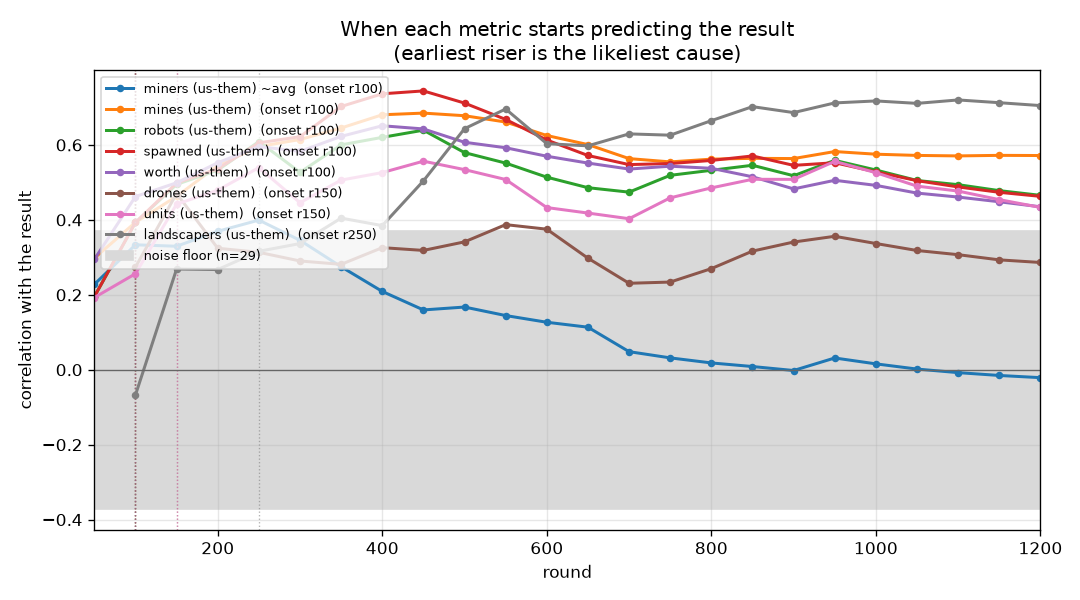
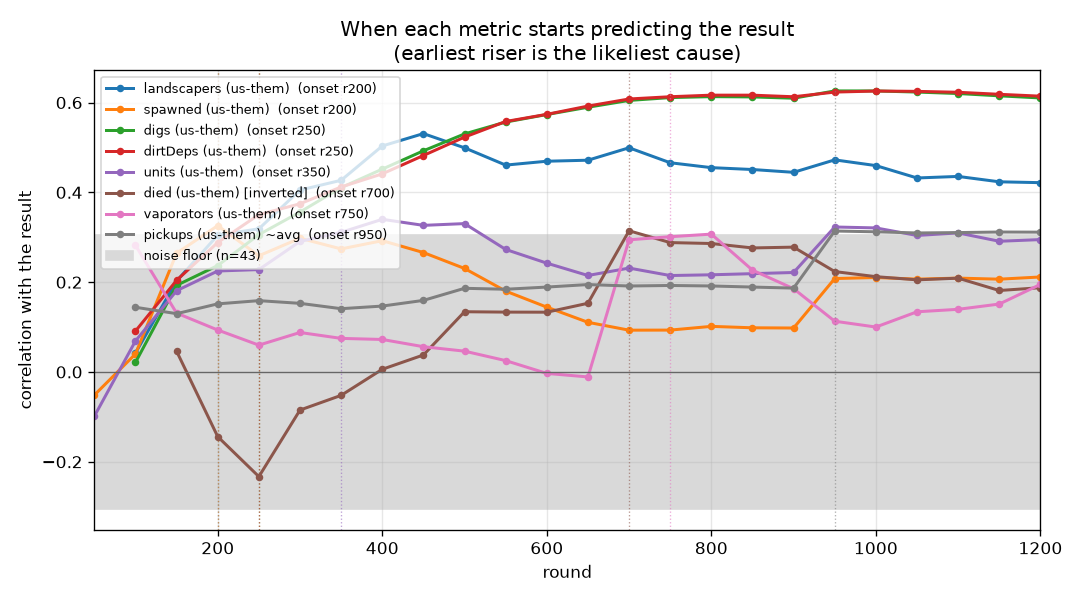
PROMPTS 21
Claude-Session: https://claude.ai/code/session_015tNyF5ucwWW1mudpEQTT25

diff --git a/progress/ONSET.md b/progress/ONSET.md
@@ -1,6 +1,6 @@
 # Which metric starts predicting the result first
 
-29 games, 16 wins. Noise floor about 0.37; a correlation inside that band is not evidence.
+43 games, 35 wins. Noise floor about 0.30; a correlation inside that band is not evidence.
 
 Every metric is oriented so **higher is better for us**, so a positive correlation always means
 "this being better goes with winning". `~avg` is the running mean over all rounds so far rather than
@@ -12,46 +12,46 @@ See `progress/METRICS.md` for how each quantity is computed.
 
 | onset | anti | metric | peak corr | r100 | r200 | r300 | r400 | r600 | r900 |
 |---|---|---|---|---|---|---|---|---|---|
-| r100 | - | miners (us-them) ~avg | +0.40 | +0.33 | +0.37 | +0.35 | +0.21 | +0.13 | -0.00 |
-| r100 | - | mines (us-them) | +0.68 | +0.39 | +0.54 | +0.61 | +0.68 | +0.63 | +0.56 |
-| r100 | - | mines (us-them) ~avg | +0.67 | +0.39 | +0.50 | +0.56 | +0.61 | +0.67 | +0.63 |
-| r100 | - | robots (us-them) | +0.64 | +0.39 | +0.53 | +0.53 | +0.62 | +0.51 | +0.52 |
-| r100 | - | robots (us-them) ~avg | +0.66 | +0.39 | +0.53 | +0.58 | +0.62 | +0.65 | +0.61 |
-| r100 | - | spawned (us-them) | +0.74 | +0.39 | +0.54 | +0.62 | +0.74 | +0.61 | +0.55 |
-| r100 | - | spawned (us-them) ~avg | +0.71 | +0.39 | +0.53 | +0.60 | +0.66 | +0.71 | +0.64 |
-| r100 | - | worth (us-them) | +0.65 | +0.46 | +0.55 | +0.58 | +0.65 | +0.57 | +0.48 |
-| r100 | - | worth (us-them) ~avg | +0.63 | +0.44 | +0.52 | +0.57 | +0.61 | +0.63 | +0.59 |
-| r150 | - | drones (us-them) | +0.47 | +0.27 | +0.32 | +0.29 | +0.33 | +0.38 | +0.34 |
-| r150 | - | drones (us-them) ~avg | +0.48 | +0.27 | +0.46 | +0.38 | +0.35 | +0.38 | +0.34 |
-| r150 | - | units (us-them) | +0.56 | +0.26 | +0.48 | +0.45 | +0.53 | +0.43 | +0.51 |
-| r150 | - | units (us-them) ~avg | +0.60 | +0.27 | +0.45 | +0.51 | +0.54 | +0.60 | +0.55 |
-| r200 | - | miners (us-them) | +0.38 | +0.30 | +0.38 | +0.06 | -0.07 | -0.01 | -0.19 |
-| r250 | - | landscapers (us-them) | +0.72 | -0.07 | +0.27 | +0.34 | +0.38 | +0.60 | +0.69 |
-| r250 | - | moves (us-them) | +0.45 | -0.06 | +0.18 | +0.44 | +0.42 | +0.41 | +0.34 |
-| r250 | - | pickups (us-them) | +0.42 | -0.09 | +0.26 | +0.24 | +0.27 | +0.41 | +0.29 |
-| r300 | - | cov (us-them) | +0.46 | -0.29 | +0.07 | +0.34 | +0.34 | +0.46 | +0.34 |
-| r300 | - | landscapers (us-them) ~avg | +0.78 | -0.07 | +0.23 | +0.30 | +0.35 | +0.51 | +0.72 |
-| r350 | - | vaporators (us-them) | +0.37 | +0.03 | +0.26 | +0.23 | +0.33 | +0.36 | +0.25 |
-| r400 | - | digs (us-them) | +0.62 | -0.06 | +0.18 | +0.25 | +0.31 | +0.40 | +0.54 |
-| r400 | - | dirtDeps (us-them) | +0.60 | -0.20 | +0.14 | +0.25 | +0.31 | +0.40 | +0.53 |
-| r400 | - | moves (us-them) ~avg | +0.35 | -0.06 | +0.04 | +0.24 | +0.31 | +0.34 | +0.31 |
-| r450 | - | vaporators (us-them) ~avg | +0.35 | +0.03 | +0.17 | +0.21 | +0.28 | +0.35 | +0.29 |
-| r500 | - | cov (us-them) ~avg | +0.46 | -0.26 | -0.13 | +0.11 | +0.21 | +0.45 | +0.44 |
-| r550 | - | pickups (us-them) ~avg | +0.38 | -0.09 | +0.22 | +0.27 | +0.27 | +0.33 | +0.37 |
-| r600 | - | digs (us-them) ~avg | +0.54 | -0.06 | +0.14 | +0.21 | +0.27 | +0.31 | +0.43 |
-| r600 | - | dirtDeps (us-them) ~avg | +0.52 | -0.20 | +0.10 | +0.20 | +0.26 | +0.31 | +0.42 |
-| r950 | - | netguns (us-them) | +0.41 | -0.17 | -0.03 | +0.06 | +0.15 | +0.14 | +0.28 |
-| - | - | aba (us-them) [inverted] | +0.26 | +0.20 | +0.20 | +0.08 | +0.04 | +0.11 | -0.08 |
-| - | - | aba (us-them) [inverted] ~avg | +0.21 | +0.11 | +0.20 | +0.14 | +0.10 | +0.12 | +0.04 |
-| - | r300 | died (us-them) [inverted] | -0.47 | . | -0.20 | -0.39 | -0.47 | -0.09 | -0.23 |
-| - | r400 | died (us-them) [inverted] ~avg | -0.32 | . | -0.20 | -0.27 | -0.32 | -0.18 | -0.14 |
+| r200 | - | landscapers (us-them) | +0.53 | +0.04 | +0.30 | +0.41 | +0.50 | +0.47 | +0.44 |
+| r200 | - | spawned (us-them) | +0.33 | +0.04 | +0.33 | +0.30 | +0.29 | +0.14 | +0.10 |
+| r250 | - | digs (us-them) | +0.63 | +0.02 | +0.24 | +0.36 | +0.45 | +0.57 | +0.61 |
+| r250 | - | dirtDeps (us-them) | +0.63 | +0.09 | +0.29 | +0.37 | +0.44 | +0.57 | +0.61 |
+| r250 | - | dirtDeps (us-them) ~avg | +0.61 | +0.08 | +0.25 | +0.33 | +0.39 | +0.50 | +0.60 |
+| r350 | - | digs (us-them) ~avg | +0.62 | +0.01 | +0.21 | +0.30 | +0.38 | +0.50 | +0.60 |
+| r350 | - | landscapers (us-them) ~avg | +0.52 | +0.02 | +0.20 | +0.28 | +0.41 | +0.49 | +0.52 |
+| r350 | - | units (us-them) | +0.34 | +0.07 | +0.22 | +0.29 | +0.34 | +0.24 | +0.22 |
+| r400 | - | spawned (us-them) ~avg | +0.30 | +0.01 | +0.21 | +0.27 | +0.30 | +0.24 | +0.16 |
+| r450 | - | units (us-them) ~avg | +0.34 | -0.00 | +0.13 | +0.20 | +0.28 | +0.31 | +0.27 |
+| r700 | - | died (us-them) [inverted] | +0.31 | . | -0.14 | -0.08 | +0.01 | +0.13 | +0.28 |
+| r750 | - | vaporators (us-them) | +0.31 | +0.28 | +0.09 | +0.09 | +0.07 | -0.00 | +0.19 |
+| r950 | - | pickups (us-them) ~avg | +0.31 | +0.14 | +0.15 | +0.15 | +0.15 | +0.19 | +0.19 |
+| r950 | - | robots (us-them) | +0.32 | +0.04 | +0.31 | +0.26 | +0.29 | +0.20 | +0.22 |
+| r950 | - | robots (us-them) ~avg | +0.34 | +0.01 | +0.21 | +0.25 | +0.29 | +0.27 | +0.25 |
+| r1100 | - | pickups (us-them) | +0.31 | +0.14 | +0.15 | +0.15 | +0.16 | +0.21 | +0.16 |
+| - | - | aba (us-them) [inverted] | -0.26 | -0.11 | +0.14 | +0.21 | +0.21 | +0.09 | -0.08 |
+| - | - | aba (us-them) [inverted] ~avg | -0.23 | -0.17 | +0.05 | +0.16 | +0.19 | +0.16 | +0.06 |
+| - | r150 | cov (us-them) | -0.33 | -0.23 | -0.27 | -0.33 | -0.23 | +0.18 | +0.06 |
+| - | r150 | cov (us-them) ~avg | -0.32 | -0.27 | -0.31 | -0.32 | -0.30 | -0.05 | +0.04 |
+| - | - | died (us-them) [inverted] ~avg | +0.24 | . | -0.04 | -0.13 | -0.06 | +0.09 | +0.24 |
+| - | - | drones (us-them) | +0.15 | +0.15 | -0.09 | +0.07 | -0.02 | -0.06 | -0.10 |
+| - | - | drones (us-them) ~avg | +0.15 | +0.15 | -0.04 | +0.03 | +0.00 | -0.02 | -0.09 |
 | - | - | drowned (us-them) [inverted] | . | . | . | . | . | . | . |
 | - | - | drowned (us-them) [inverted] ~avg | . | . | . | . | . | . | . |
 | - | - | hqBuried (us-them) [inverted] | . | . | . | . | . | . | . |
 | - | - | hqBuried (us-them) [inverted] ~avg | . | . | . | . | . | . | . |
-| - | - | netguns (us-them) ~avg | +0.22 | -0.17 | -0.11 | -0.02 | +0.04 | +0.10 | +0.11 |
-| - | - | soup (us-them) | +0.37 | +0.19 | +0.18 | +0.08 | +0.03 | +0.08 | -0.14 |
-| - | - | soup (us-them) ~avg | +0.26 | +0.21 | +0.18 | +0.05 | -0.00 | -0.03 | -0.00 |
+| - | - | miners (us-them) | -0.13 | +0.03 | -0.05 | -0.10 | -0.11 | -0.09 | -0.12 |
+| - | - | miners (us-them) ~avg | -0.12 | -0.04 | -0.03 | -0.09 | -0.11 | -0.11 | -0.11 |
+| - | - | mines (us-them) | +0.20 | +0.20 | +0.13 | +0.10 | +0.10 | +0.02 | -0.00 |
+| - | - | mines (us-them) ~avg | +0.19 | +0.19 | +0.15 | +0.10 | +0.10 | +0.05 | +0.02 |
+| - | - | moves (us-them) | +0.12 | +0.00 | -0.01 | +0.01 | +0.05 | +0.12 | +0.07 |
+| - | - | moves (us-them) ~avg | +0.10 | +0.04 | +0.05 | +0.05 | +0.06 | +0.08 | +0.09 |
+| - | - | netguns (us-them) | +0.22 | . | +0.14 | +0.07 | +0.10 | +0.10 | +0.00 |
+| - | - | netguns (us-them) ~avg | +0.22 | . | +0.18 | +0.11 | +0.10 | +0.13 | +0.08 |
+| - | - | soup (us-them) | +0.28 | +0.15 | -0.09 | -0.12 | -0.15 | -0.09 | +0.00 |
+| - | - | soup (us-them) ~avg | +0.21 | +0.20 | -0.01 | -0.09 | -0.12 | -0.13 | -0.08 |
+| - | - | vaporators (us-them) ~avg | +0.28 | +0.28 | +0.15 | +0.10 | +0.10 | +0.06 | +0.16 |
+| - | - | worth (us-them) | +0.25 | +0.22 | +0.25 | +0.15 | +0.13 | +0.07 | +0.19 |
+| - | - | worth (us-them) ~avg | +0.25 | +0.23 | +0.25 | +0.18 | +0.16 | +0.11 | +0.14 |
 
 **Reading it.** Earliest onset is the first place to look: temporal precedence is the one causal hint a
 correlation can honestly give. Late-onset metrics are usually the scoreboard rather than the cause -- by then

diff --git a/PROMPTS.md b/PROMPTS.md
@@ -97,3 +97,7 @@ ELO.md has g_iter6 at 1677 and 20th place, which contradicts your statement.  Wh
 ## 20. 2026-09-24
 
 Thanks.  I frequently look at the docs in the Github repository to get a sense of where we are, so it's important to keep them up to date
+
+## 21. 2026-09-24
+
+Given everything you've learned about Battlecode, what is your estimate for how much better Fable 5.1 is over Opus 5.5 for making progress in the game?
